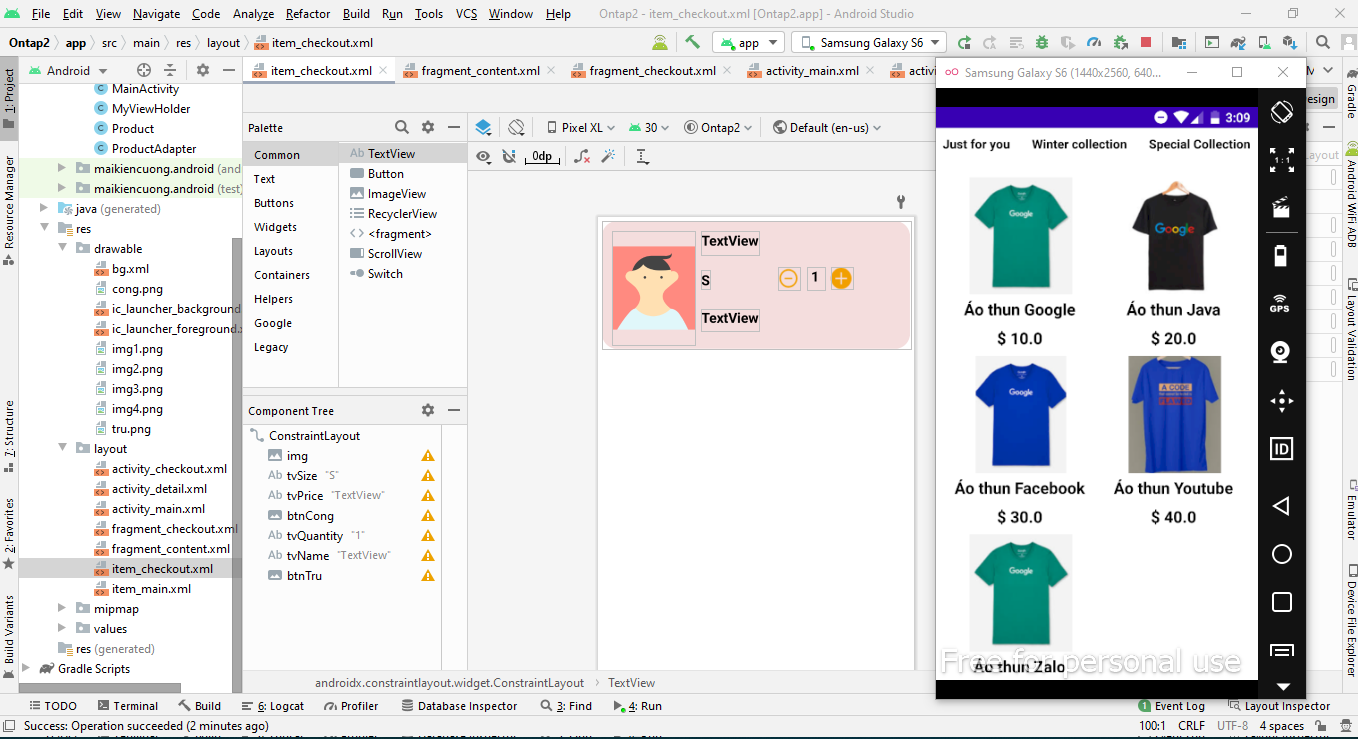
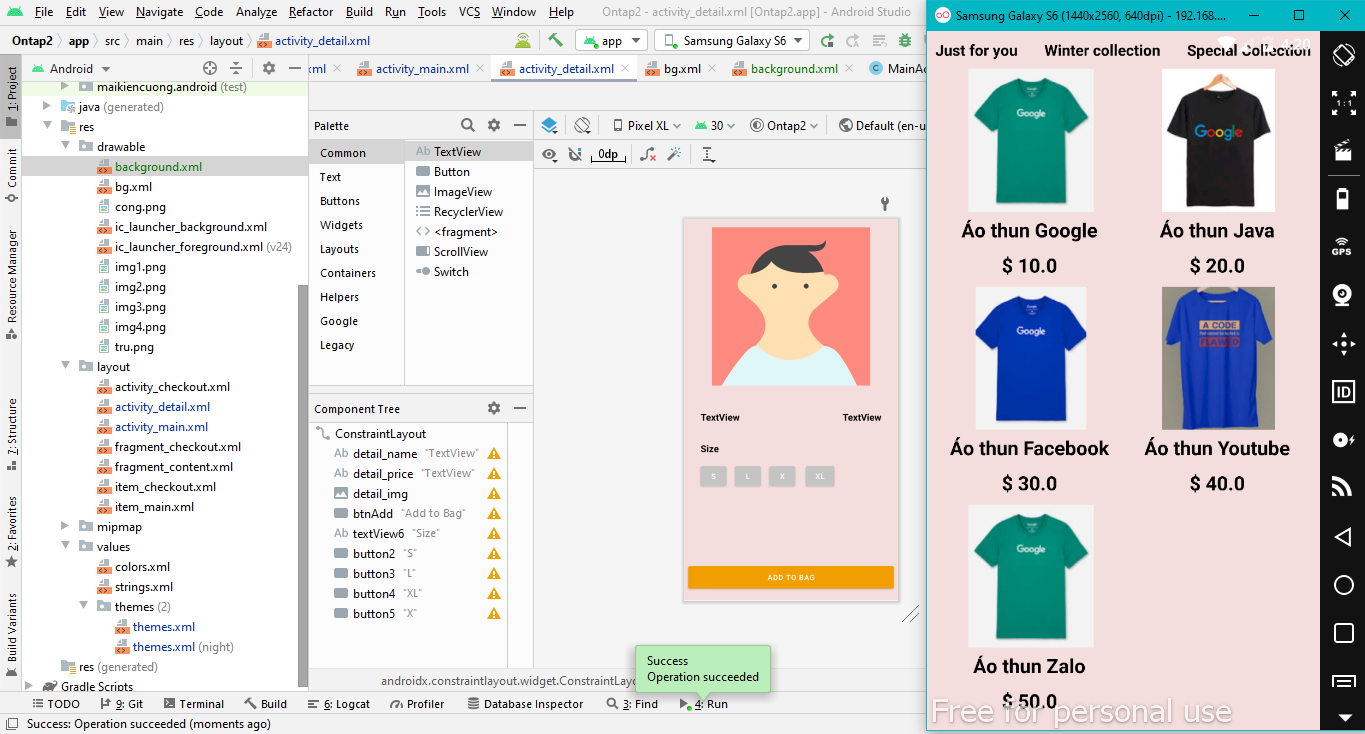
make transparent status bar

diff --git a/app/src/main/java/maikiencuong/android/CheckoutActivity.java b/app/src/main/java/maikiencuong/android/CheckoutActivity.java
@@ -3,8 +3,13 @@ package maikiencuong.android;
 import androidx.appcompat.app.AppCompatActivity;
 import androidx.fragment.app.Fragment;
 
+import android.graphics.Color;
+import android.os.Build;
 import android.os.Bundle;
 import android.util.Log;
+import android.view.View;
+import android.view.Window;
+import android.view.WindowManager;
 import android.widget.Button;
 import android.widget.ImageButton;
 import android.widget.ImageView;
@@ -24,17 +29,20 @@ public class CheckoutActivity extends AppCompatActivity {
         setContentView(R.layout.activity_checkout);
         getSupportActionBar().hide();
 
-        products = new ArrayList<>();
+        if (Build.VERSION.SDK_INT >= Build.VERSION_CODES.KITKAT) {
+            Window w = getWindow();
+            w.setFlags(WindowManager.LayoutParams.FLAG_LAYOUT_NO_LIMITS, WindowManager.LayoutParams.FLAG_LAYOUT_NO_LIMITS);
+        }
 
+        products = new ArrayList<>();
         Bundle bundle = getIntent().getExtras();
         if (bundle != null) {
             Product product = (Product) bundle.getSerializable("product");
-            products= (ArrayList<Product>) bundle.getSerializable("products");
+            products = (ArrayList<Product>) bundle.getSerializable("products");
             products.add(product);
         }
 
         fragment = CheckoutFragment.newInstance(products);
-
         getSupportFragmentManager().beginTransaction().add(R.id.fragment2, fragment).commit();
 
     }

diff --git a/app/src/main/java/maikiencuong/android/MainActivity.java b/app/src/main/java/maikiencuong/android/MainActivity.java
@@ -3,7 +3,12 @@ package maikiencuong.android;
 import androidx.appcompat.app.AppCompatActivity;
 import androidx.fragment.app.Fragment;
 
+import android.graphics.Color;
+import android.os.Build;
 import android.os.Bundle;
+import android.view.View;
+import android.view.Window;
+import android.view.WindowManager;
 
 import java.util.ArrayList;
 
@@ -18,6 +23,11 @@ public class MainActivity extends AppCompatActivity {
         setContentView(R.layout.activity_main);
         getSupportActionBar().hide();
 
+        if (Build.VERSION.SDK_INT >= Build.VERSION_CODES.KITKAT) {
+            Window w = getWindow();
+            w.setFlags(WindowManager.LayoutParams.FLAG_LAYOUT_NO_LIMITS, WindowManager.LayoutParams.FLAG_LAYOUT_NO_LIMITS);
+        }
+
         products = new ArrayList<>();
         products.add(new Product("Áo thun Google", 10, R.drawable.img1));
         products.add(new Product("Áo thun Java", 20, R.drawable.img2));
@@ -26,7 +36,6 @@ public class MainActivity extends AppCompatActivity {
         products.add(new Product("Áo thun Zalo", 50, R.drawable.img1));
 
         fragment = ContentFragment.newInstance(products);
-
         getSupportFragmentManager().beginTransaction().add(R.id.fragment, fragment).commit();
     }
 }

diff --git a/app/src/main/java/maikiencuong/android/DetailActivity.java b/app/src/main/java/maikiencuong/android/DetailActivity.java
@@ -3,8 +3,12 @@ package maikiencuong.android;
 import androidx.appcompat.app.AppCompatActivity;
 
 import android.content.Intent;
+import android.graphics.Color;
+import android.os.Build;
 import android.os.Bundle;
 import android.view.View;
+import android.view.Window;
+import android.view.WindowManager;
 import android.widget.Button;
 import android.widget.ImageView;
 import android.widget.TextView;
@@ -24,6 +28,11 @@ public class DetailActivity extends AppCompatActivity {
         super.onCreate(savedInstanceState);
         setContentView(R.layout.activity_detail);
         getSupportActionBar().hide();
+
+        if (Build.VERSION.SDK_INT >= Build.VERSION_CODES.KITKAT) {
+            Window w = getWindow();
+            w.setFlags(WindowManager.LayoutParams.FLAG_LAYOUT_NO_LIMITS, WindowManager.LayoutParams.FLAG_LAYOUT_NO_LIMITS);
+        }
 
         tvName = findViewById(R.id.detail_name);
         tvPrice = findViewById(R.id.detail_price);
